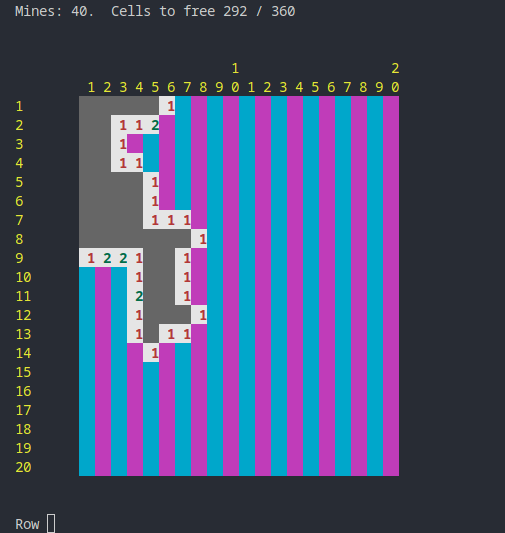
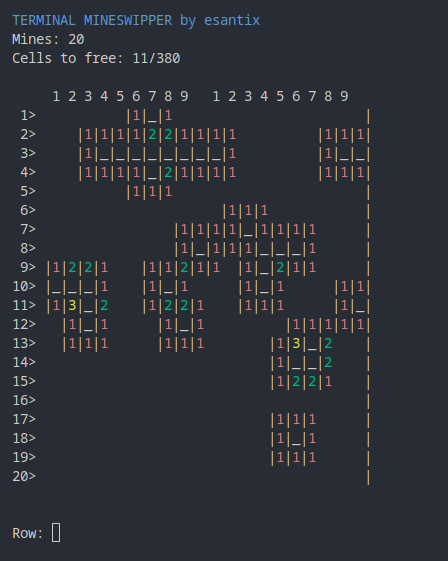
coloring

diff --git a/src/main.c b/src/main.c
@@ -15,15 +15,17 @@ void main() {
   int level;
   int cells;
   int perdiste = 0;
+  int ganaste = 0;
 
   char MINESYMBOL = '*';
-  char EMPTYSYMBOL = ' ';
+  char EMPTYSYMBOL = '_';
   char NOTVISIBLESYMBOL = ' ';
 
   // Print initial menu
-  printf("\n TERMINAL MINESWIPPER by esantix\n\n");
 
-  printf("\n Size [5-40]: ");
+  printf("\n\033[34mTERMINAL MINESWIPPER by esantix\n\033[0m");
+
+  printf("\n Choose map size [5-40]: ");
   scanf("%d", &dimension);
   while (dimension < 5 || dimension > 40) {
     printf("Choose between [5-40]: ");
@@ -39,7 +41,7 @@ void main() {
 
   // Level to number of mines calculation
   cells = dimension * dimension;
-  num_mines = (int)(dimension * dimension * level * 0.1);
+  num_mines = (int)(dimension * dimension * level * 0.05);
   num_free = cells - num_mines;
 
   // Map values
@@ -89,11 +91,13 @@ void main() {
   while (print_map == 1) {
     // Print coordinates input menu
     system("clear");
-    printf("Mines: %d\nCells to free %d/%d \n\n", num_mines,
+    printf("\n\033[34mTERMINAL MINESWIPPER by esantix\n\033[0m");
+
+    printf("Mines: %d\nCells to free: %d/%d \n\n", num_mines,
            num_free - num_visibles, num_free);
     k = (dimension - (dimension % 10)) / 10;
 
-    printf("   ");
+    printf("    ");
     for (i = 1; i <= dimension; i++) {
       if (i % 10 == 0) {
         printf("  ");
@@ -103,15 +107,12 @@ void main() {
     };
     printf("\n");
 
-    // Ppor cada linea
+
     for (i = 1; i <= dimension; i++) {
-      // Imprimir indice fila
       if (i < 10) {
         printf(" ");
       };
-      printf(
-
-          "%d ", i);
+      printf("%d> ", i);
 
       // Imprimir valores de fila
       for (j = 1; j <= dimension; j++) {
@@ -119,35 +120,47 @@ void main() {
           if (MAP[i][j] == MINEVAL) {
             printf(" %c", MINESYMBOL);
           } else if (MAP[i][j] == 0) {
-            printf(" %c", EMPTYSYMBOL);
+            printf("  ");
           } else {
             printf(
-                "\033[%dm"
-                " %d"
+                
+                "|\033[%dm%d"
                 "\033[0m",
                 30 + MAP[i][j], MAP[i][j]);
           };
         } else {
-          printf(
-              "\033[1;1;%dm"
-              " %c"
-              "\033[0m",
-              45 + j % 2, NOTVISIBLESYMBOL);
+          // Not pressed
+          printf("|_");
         };
       };
-      printf(" %d", i);
-      printf("\n");
+      printf("|\n");
     };
 
+    // printf("   ");
+    // for (i = 1; i <= dimension; i++) {
+    //   if (i % 10 == 0) {
+    //     printf("  ");
+    //   } else {
+
+    //     printf(" %d", i % 10);
+    //   };
+    // };
+   
+
     if (perdiste == 1) {
-      printf("\n  YOU LOOSE :(\n\n");
+      printf("\033[31m\n\n  YOU LOOSE :(\n\n\033[0m");
       exit(1);
     };
 
-    // Menu de elegir coordenadas
-    printf("\n\nRow ");
+    if (ganaste == 1) {
+      printf("\033[32m\n\n  YOU WIN  :) \n\n\033[0m");
+      exit(0);
+    };
+
+    // Coordinates choosing menu
+    printf("\n\nRow: ");
     scanf("%d", &fi);
-    printf("Column ");
+    printf("Column: ");
     scanf("%d", &co);
 
     // Hacer visible la elegida
@@ -156,7 +169,6 @@ void main() {
     // Si es bomba, perder
     if (MAP[fi][co] == MINEVAL) {
       perdiste = 1;
-
       for (i = 0; i <= dimension; i++) {
         for (j = 0; j <= dimension; j++) {
           VISIBLE[i][j] = 1;
@@ -198,9 +210,7 @@ void main() {
       };
     };
     if (num_visibles == num_free) {
-      system("clear");
-      printf("\n\n\n\t\tYOU WIN\n\n\n");
-      print_map = 0;
+      ganaste = 1;
     };
   };
 }
